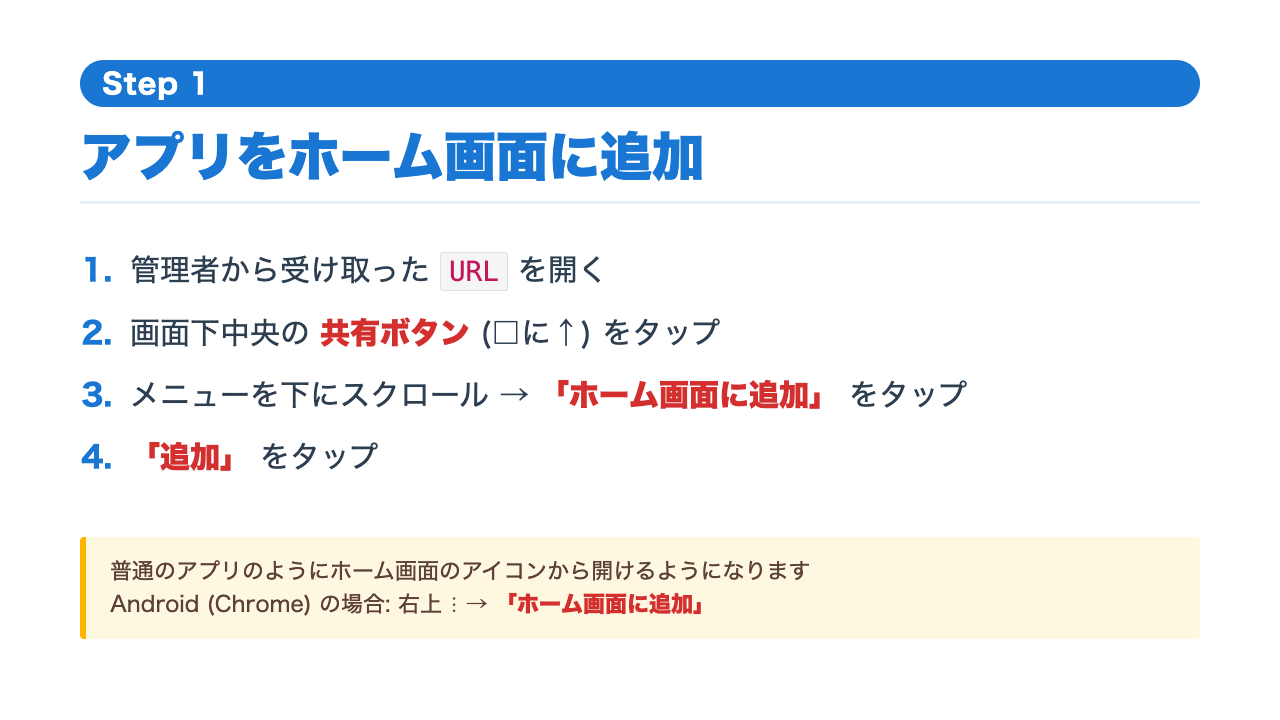
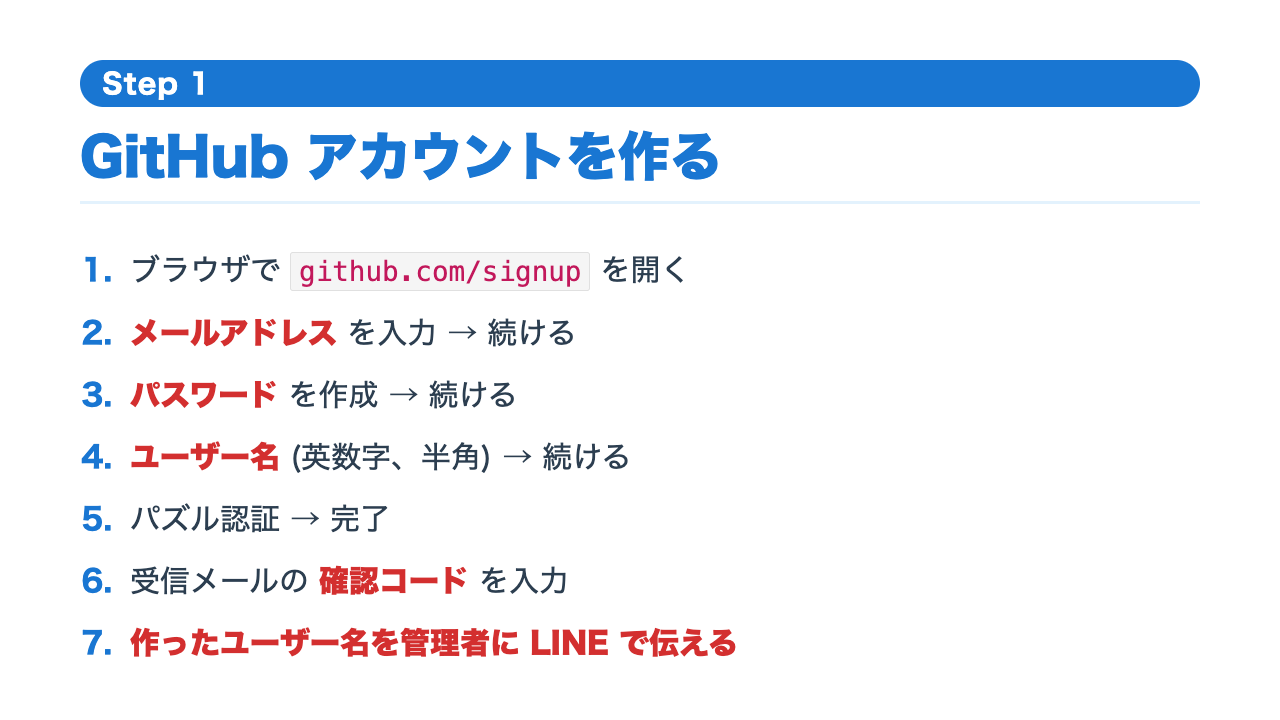
docs: 新規ユーザー手順書を 6 ステップに拡張 (GitHub 登録 + PAT 発行 + Gemini)
- Step 1: GitHub アカウント作成
- Step 2: GitHub アクセスキー (PAT) 発行
- Step 3: アプリをホーム画面に追加
- Step 4: 設定画面で 3 つ入力
- Step 5: Gemini Web で写真をテキスト化 (チャット切替の助言保持)
- Step 6: アプリにペーストして保存

manual/onboarding.md (Marp ソース) を真のソース、build.sh で PNG 生成。

🤖 Generated with [Claude Code](https://claude.com/claude-code)

diff --git a/docs/setup-for-novice.md b/docs/setup-for-novice.md
@@ -1,91 +1,141 @@
 # タクシー日報アプリ セットアップ手順書
 
-スマホでこのアプリを使えるようにする手順書です。**Google アカウント**さえあれば誰でも使えます。GitHub の知識は一切不要です。
+スマホでこのアプリを使えるようにする手順書です。**GitHub も Gemini も触ったことがない人** 向けに、ゼロから順番に説明します。
 
 ---
 
-## 必要なもの
+## はじめに
 
-- スマホ(iPhone でも Android でも OK)
-- **Google アカウント**(Gmail を持っていればそれでOK)
-- 管理者から渡された **3つの情報**:
-  1. アプリのURL
-  2. アクセス用のキー(`ghp_xxx...` のような長い文字列)
-  3. あなた専用のID(`user_xxx` のような文字列)
+このアプリは、毎日の日報写真を AI(Gemini)でテキスト化して、共有データベース(GitHub)に蓄積する仕組みです。あなたが必要なのは:
 
-> 管理者から上の3つを LINE 等で受け取ってからスタートしてください。
+1. **GitHub アカウント**(無料・初めて作る場合は手順書あり)
+2. **Google アカウント**(Gmail を使っている人なら既にあります)
+3. **管理者から受け取る情報**:
+   - アプリの URL
+   - データリポジトリ名 (`hidenaka/taxi-daily-report-data`)
+   - あなた専用の userId (`user_xxx`)
+   - Gemini に投げるプロンプト本文(別途配布)
 
----
-
-## Step 1. アプリをホーム画面に追加する
-
-![Step 1: アプリをホーム画面に追加](images/manual-step.001.png)
-
-1. **管理者から受け取った URL を開く**(LINEのメッセージのリンクをタップ)
-2. iPhone(Safari)の場合: 画面下中央の **共有ボタン（□に↑のアイコン）** をタップ
-3. メニューを下にスクロール → **「ホーム画面に追加」** をタップ
-4. 「追加」をタップ
-
-> Android(Chrome)の場合: 右上の **︙メニュー** → **「ホーム画面に追加」**
-
-これで普通のアプリのようにホーム画面のアイコンから開けるようになります。
+> 1〜2 は自分で作ります。3 は管理者から LINE 等で受け取ってください。
 
 ---
 
-## Step 2. 設定画面でキーとIDを入れる
+## Step 1. GitHub アカウントを作る
 
-![Step 2: 設定画面でキーとIDを入れる](images/manual-step.002.png)
+![Step 1: GitHub アカウントを作る](images/manual-step.001.png)
+
+1. ブラウザで **https://github.com/signup** を開く
+2. **メールアドレス** を入力 → 続ける
+3. **パスワード** を作成 → 続ける
+4. **ユーザー名** を決める(英数字・半角、後で変えられないので慎重に)→ 続ける
+5. 表示されるパズル認証 → 完了
+6. 受信メールに届く **6 桁の確認コード** を入力
+7. **作ったユーザー名を管理者に LINE で伝える**
+
+> 管理者があなたを「データリポジトリ」に招待します。しばらくすると **招待メール** (`You've been invited to collaborate...`) が届きますので開いてください。
+
+---
+
+## Step 2. GitHub アクセスキー (PAT) を発行
+
+![Step 2: アクセスキーを発行](images/manual-step.002.png)
+
+1. **招待メール** を開いて **「Accept invitation」** ボタンをクリック
+2. 右上の自分のアイコン → **Settings**
+3. 左メニューの一番下 → **Developer settings**
+4. **Personal access tokens** → **Fine-grained tokens** → **Generate new token**
+5. 入力項目:
+   - **Token name**: `taxi-app`(自分が分かれば何でも)
+   - **Expiration**: `1 year`(1年後に作り直す必要あり)
+6. **Repository access** → `Only selected repositories` → `taxi-daily-report-data` を選択
+7. **Permissions** → Repository permissions → **Contents** を `Read and write`
+8. ページ最下部の **Generate token** をクリック
+9. 表示された **`ghp_xxxxxx...`** という文字列を **すぐコピー**(画面を閉じると二度と見られません)
+
+> コピーしたキーは LINE 等で **自分の家族 LINE 等にメモ送信** しておくのが安全
+> 紛失したら同じ手順で作り直せます
+
+---
+
+## Step 3. アプリをホーム画面に追加
+
+![Step 3: アプリをホーム画面に追加](images/manual-step.003.png)
+
+1. 管理者から受け取った **アプリの URL** を開く(LINE のリンクをタップ)
+2. **iPhone (Safari)** の場合:
+   - 画面下中央の **共有ボタン**(□に↑のアイコン)をタップ
+   - メニューを下にスクロール → **「ホーム画面に追加」** をタップ
+   - **「追加」** をタップ
+3. **Android (Chrome)** の場合:
+   - 右上の **⋮ メニュー** → **「ホーム画面に追加」**
+
+これで普通のアプリのようにホーム画面のアイコンから開けます。
+
+---
+
+## Step 4. 設定画面で 3 つ入力
+
+![Step 4: 設定画面で情報入力](images/manual-step.004.png)
 
 1. ホーム画面のアイコンから **アプリを開く**
-2. 下のメニューから **「⚙ 設定」** を開く
-3. 管理者から受け取った情報を入れる:
-   - **GitHub PAT**: `ghp_xxxxxxxxxx...`(コピペ推奨)
-   - **データリポジトリ**: `hidenaka/taxi-daily-report-data`(これは固定)
-   - **userId**: `user_xxx`(あなた専用、管理者から指定されたもの)
-   - **表示名**: 自由(自分が分かれば何でも)
+2. 下のメニューから **⚙ 設定** を開く
+3. 入力する 3 つ:
+   - **GitHub PAT**: Step 2 でコピーした `ghp_xxx...` を貼り付け
+   - **データリポジトリ**: `hidenaka/taxi-daily-report-data`
+   - **userId**: 管理者から指定された `user_xxx`
 4. **「保存」** をタップ
 
-> 一度設定したら次回以降は不要です(スマホに記憶されます)
+> 一度保存すれば次回以降は自動で読み込まれます(再入力不要)
 
 ---
 
-## Step 3. 日報の写真を Gemini で変換する
+## Step 5. 毎日: Gemini Web で写真をテキスト化
 
-![Step 3: Gemini Webで写真をテキスト化](images/manual-step.003.png)
+![Step 5: Gemini で写真をテキスト化](images/manual-step.005.png)
 
-毎日の運用フローです:
+ここから **毎日の運用** です:
 
 1. ブラウザで **https://gemini.google.com** を開く
-2. **Google アカウントでログイン**(Gmail のアカウントでOK)
-3. 管理者から受け取った **「Gemini プロンプト」**(別途配布)を全部コピー
-4. Gemini にプロンプトを **ペースト**
-5. **日報の写真を全部アップロード**(複数枚OK、何日分でもOK)
-6. **送信ボタンを押す**
-7. 数秒〜数十秒で Gemini がテキストを返してくる
-8. **返ってきたテキストを全選択 → コピー**
+2. **Google アカウントでログイン**
+   - Gmail を使っているなら、その同じアカウントでログイン
+   - 持っていない場合は先に **https://accounts.google.com/signup** で Google アカウント作成
+3. 管理者から受け取った **「Gemini プロンプト」** を全部コピー → Gemini にペースト
+4. 日報の **写真をすべてアップロード**(複数枚 OK、何日分でも OK)
+5. **送信ボタン** を押す
+6. 数十秒待つ → Gemini がテキストを返す
+7. **テキストを全選択 → コピー**
 
-> 20-30枚くらいまでが安定。同じチャットでメッセージ多くなると精度が落ちてきます。定期的に新しいチャットに切り替えてください。
+> 20-30 枚くらいまでが安定。同じチャットでメッセージ多くなると精度が落ちてきます。定期的に新しいチャットに切り替えてください
 
 ---
 
-## Step 4. アプリにペーストして保存
+## Step 6. アプリにペーストして保存
 
-![Step 4: アプリにペーストして保存](images/manual-step.004.png)
+![Step 6: アプリで保存](images/manual-step.006.png)
 
 1. タクシー日報アプリを開く
-2. **「📝 入力」** メニューを開く
-3. **テキスト貼付エリア** に Step 3 でコピーしたテキストをペースト
+2. **📝 入力** メニューを開く
+3. テキストエリアに Step 5 でコピーしたテキストを **ペースト**
 4. **「パース」** ボタンをタップ
 5. プレビューで **件数・売上・キャンセル数** を目視確認
-6. 車種(プレミアム/レギュラー) が間違っていたら手動で直す
-7. **「保存」** ボタンをタップ
+6. **車種(プレミアム/レギュラー)** が間違っていたら手動で直す
+7. **「保存」** をタップ
 8. 「保存しました」と出れば完了
 
-> 複数日分まとめてペーストしたい場合は **「📚 一括入力」** メニューから
+> 複数日分まとめて入れる場合は **📚 一括入力** メニューから
 
 ---
 
 ## よくある質問
+
+### Q. GitHub のメール確認コードが届かない
+迷惑メール フォルダを確認。それでもなければ「Resend confirmation」をクリック。
+
+### Q. 招待メールが来ない
+管理者にあなたの正しい GitHub ユーザー名を伝えたか再確認。
+
+### Q. PAT を紛失した
+Step 2 と同じ手順で新しい PAT を作り直す。アプリの設定で古い PAT を新しいものに置き換える。
 
 ### Q. Gemini が「写真が読めない」と言う
 - 解像度を上げて再撮影
@@ -93,24 +143,13 @@
 - 別の角度で撮り直す
 
 ### Q. 金額がおかしい
-- ¥1,500 と ¥15,000 を AI が読み間違えることがあります
-- アプリの「パース」プレビューで目視確認、おかしければ手動修正
+¥1,500 と ¥15,000 を AI が読み間違えることがあります。アプリの「パース」プレビューで目視確認、おかしければ手動修正してください。
 
-### Q. 日付が空欄になっている
-- 日報の日付欄が写りにくいことがあります
-- アプリ側で手動入力できます
+### Q. 同じ日を間違って 2 回入れた
+上書きされるだけなので問題ありません(同じ日付の最新が残ります)。
 
-### Q. 「キャンセル」と判定されているのに売上が立っているはず
-- 自動判定ルール: ¥400 / ¥500+0km / ¥1000+0km / 「キ」マーク のいずれか
-- 通常のキャンセル料はこれで正しく0円扱いになります
-- 待機料金が¥1,500等で売上が立つケースは正しく売上扱いになります(キャンセルにはならない)
-
-### Q. 同じ日を間違って2回入れた
-- 上書きされるだけなので問題ありません(同じ日付の最新が残る)
-
-### Q. アプリが古いままで新機能が出ない
-- ブラウザで開いて **強制リロード**(iPhone Safari は アドレスバー長押し→「再読込を要求」)
-- それでも改善しない場合は管理者に連絡
+### Q. アプリが古いまま新機能が出ない
+ブラウザで開いて **強制リロード**(iPhone Safari は アドレスバー長押し →「再読込を要求」)。それでも改善しない場合は管理者に連絡。
 
 ---
 

diff --git a/manual/onboarding.md b/manual/onboarding.md
@@ -4,46 +4,77 @@ paginate: false
 ---
 
 # Step 1
-## アプリをホーム画面に追加
+## GitHub アカウントを作る
 
-1. 管理者から受け取った `URL` を開く
-2. 画面下中央の **共有ボタン** (□に↑) をタップ
-3. メニューを下にスクロール → **「ホーム画面に追加」** をタップ
-4. **「追加」** をタップ
+1. ブラウザで `github.com/signup` を開く
+2. **メールアドレス** を入力 → 続ける
+3. **パスワード** を作成 → 続ける
+4. **ユーザー名** (英数字、半角) → 続ける
+5. パズル認証 → 完了
+6. 受信メールの **確認コード** を入力
+7. **作ったユーザー名を管理者に LINE で伝える**
 
-> 普通のアプリのようにホーム画面のアイコンから開けるようになります
-> Android (Chrome) の場合: 右上 ⋮ → **「ホーム画面に追加」**
+> 管理者があなたを「タクシー日報のデータリポジトリ」に招待します
+> しばらくすると招待メールが届きます
 
 ---
 
 # Step 2
-## 設定画面でキーと ID を入れる
+## GitHub アクセスキー (PAT) を発行
 
-1. ホーム画面のアイコンから **アプリを開く**
-2. 下のメニューから **⚙ 設定** を開く
-3. 受け取った 3 つを入力:
-   - GitHub PAT (`ghp_xxx...`)
-   - データリポジトリ (`hidenaka/taxi-daily-report-data`)
-   - userId (`user_xxx`)
-4. **「保存」** をタップ (1回だけ。次回以降は自動)
+1. **招待メール** を開いて **Accept invitation**
+2. 右上アイコン → **Settings** → **Developer settings**
+3. **Fine-grained tokens** → **Generate new token**
+4. Name `taxi-app` / Expiration `1 year`
+5. Repository: `taxi-daily-report-data` のみ選択
+6. Permissions: Contents = **Read and write**
+7. **Generate token** → `ghp_...` を **すぐコピー** (再表示不可)
+
+> 紛失したら同じ手順で作り直せます
 
 ---
 
 # Step 3
-## Gemini Web で写真をテキスト化
+## アプリをホーム画面に追加
 
-1. ブラウザで `gemini.google.com` を開く
-2. **Google アカウントでログイン** (Gmail で OK)
-3. 受け取った **プロンプト** をコピー → ペースト
-4. **日報の写真をアップロード** (複数枚 OK)
-5. 送信 → 数十秒待つ
-6. 出力テキストを **全選択 → コピー**
+1. 管理者から受け取った **アプリ URL** を開く
+2. iPhone (Safari): 画面下中央の **共有ボタン** (□に↑) をタップ
+3. メニューを下にスクロール → **「ホーム画面に追加」** をタップ
+4. **「追加」** をタップ
 
-> 一度に 20-30 枚までが安定 / プロンプトは管理者から配布
+> Android (Chrome) の場合: 右上 ⋮ → **「ホーム画面に追加」**
+> 普通のアプリのようにホーム画面のアイコンから開けます
 
 ---
 
 # Step 4
+## 設定画面で 3 つ入力
+
+1. ホーム画面のアイコンから **アプリを開く**
+2. 下のメニューから **⚙ 設定** を開く
+3. 受け取った 3 つを入力:
+   - GitHub PAT (`ghp_xxx...`) ← Step 2 でコピーしたもの
+   - データリポジトリ (`hidenaka/taxi-daily-report-data`)
+   - userId (`user_xxx`) ← 管理者から指定されたもの
+4. **「保存」** をタップ (1 回だけ。次回以降は自動)
+
+---
+
+# Step 5
+## Gemini Web で写真をテキスト化
+
+1. ブラウザで `gemini.google.com` を開く
+2. **Google アカウントでログイン** (Gmail を持っていればそれで OK)
+3. 受け取った **プロンプト** を全部コピー → ペースト
+4. **日報の写真をアップロード** (複数枚 OK)
+5. 送信 → 数十秒待つ
+6. 出力テキストを **全選択 → コピー**
+
+> 20-30 枚で新しいチャットに切り替え (精度低下防止) / Gmail なしなら先に Google 登録
+
+---
+
+# Step 6
 ## アプリにペーストして保存
 
 1. タクシー日報アプリを開く
